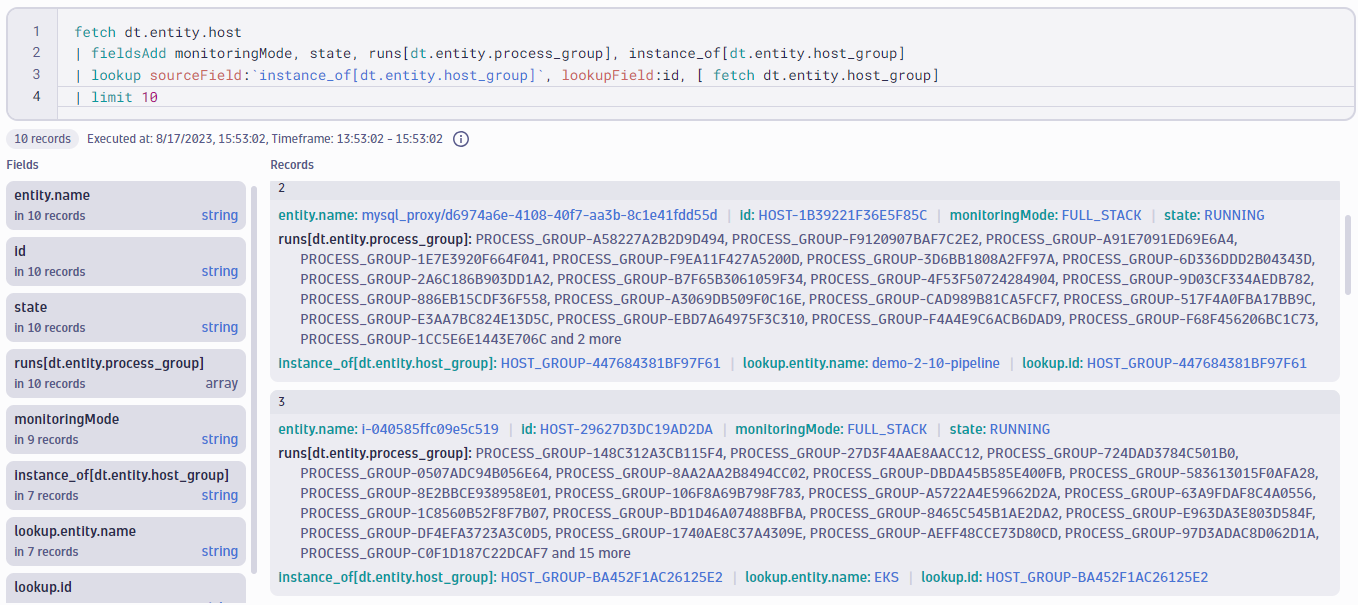
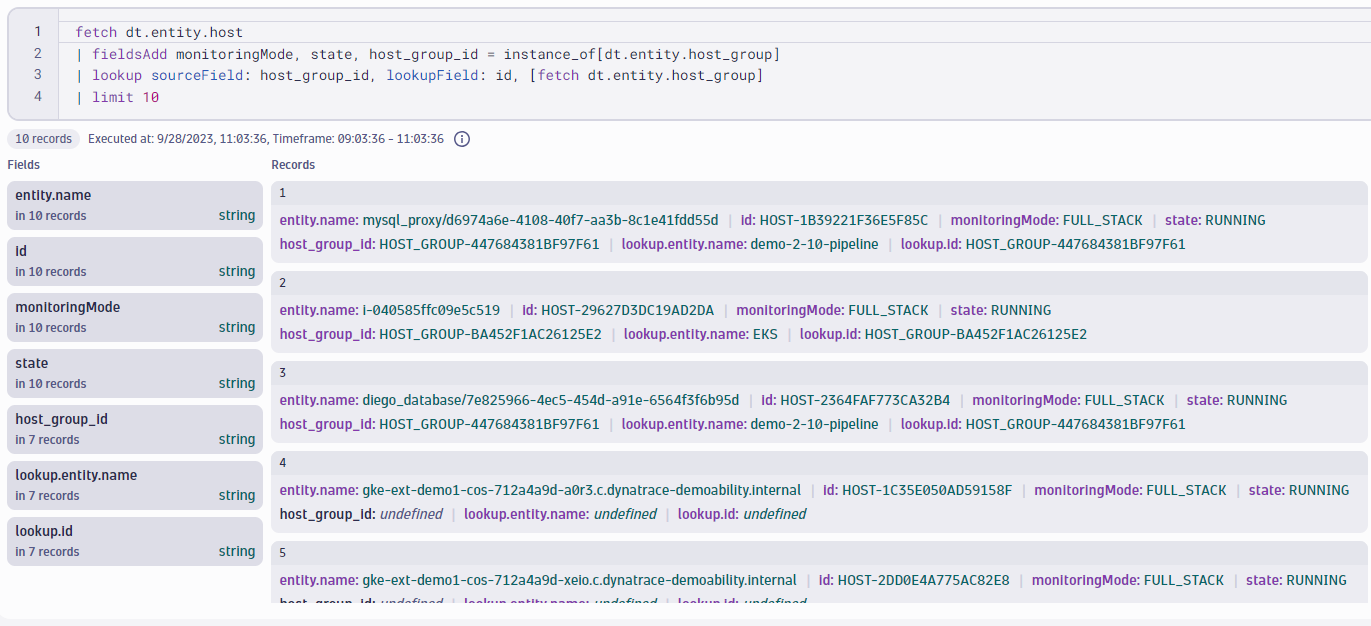
Post-dry run edits

Changed region(s): [[0.0, 0.0, 1.0, 1.0]]

diff --git a/DQL HOT 1 - DQL Fundamentals/content/02_DQL_Entities/index.md b/DQL HOT 1 - DQL Fundamentals/content/02_DQL_Entities/index.md
@@ -2,13 +2,15 @@
 
 In this section, you will practice querying entities and relationships with DQL in a Notebook.
 
+For these exercises, you will use the **[Dynatrace demo environment](https://guu84124.apps.dynatrace.com/ui/apps/dynatrace.notebooks/notebooks)**.  Navigate to that environment and create a new notebook.
+
 ---
 
 ### Step 1: Fetch a List of Hosts
 
 We will begin by querying a list of hosts.
 
-In a new notebook, add a new section and choose "Query Grail".
+Add a new section to your notebook and choose "Query Grail".
 
 
 #### Write and execute a query to obtain a list of hosts. Limit to 10 results.
@@ -40,7 +42,7 @@ Notice that by default, the only data returned for each host is the entity name 
 
 You can use the **describe** command to query information about the schema of a datatype.  This command will return the fields associated with a datatype.
 
-#### Add a new section to your notebook and use the describe command to list the fields associated with the dt.entity.host datatype.
+#### Add a <u>new section</u> to your notebook and use the describe command to list the fields associated with the dt.entity.host datatype.
 
 <H4><details>
 <summary>Click to Expand Solution</summary>
@@ -62,11 +64,11 @@ describe dt.entity.host
 
 Now that you know what fields are available to query for hosts, you can add additional fields to the output by using the **fieldsAdd** command.
 
-Note: When using the fieldsAdd command, you will see a list of suggested fields you can add to the results.  
+Note: When using the **fieldsAdd** command, you will see a list of suggested fields you can add to the results.  
 
 <!-- ![Notebooks](../../assets/images/Query_Entities_Add_Fields.png) -->
 
-#### Add monitoring mode and state to the results of your original query.
+#### Return to your <u>original **fetch** query</u> and add monitoring mode and state to the results.
 
 <H4><details>
 <summary>Click to Expand Solution</summary>
@@ -106,7 +108,7 @@ and many more.
 
 ```
 fetch dt.entity.host
-| fieldsAdd monitoringMode, state, instance_of[dt.entity.host_group]
+| fieldsAdd monitoringMode, state, host_group_id = instance_of[dt.entity.host_group]
 | limit 10
 ```
 
@@ -133,8 +135,8 @@ For example, the following query fetches a list of service instances, the hosts 
 Query:
 ```
 fetch dt.entity.service_instance
-| fieldsAdd runs_on[dt.entity.host]
-| lookup sourceField:`runs_on[dt.entity.host]`, lookupField:id, [ fetch dt.entity.host ]
+| fieldsAdd host_id = runs_on[dt.entity.host]
+| lookup sourceField:host_id, lookupField:id, [ fetch dt.entity.host ]
 ```
 Result:
 ![Lookup Example](../../assets/images/lookup_example_result.png)
@@ -142,8 +144,10 @@ Result:
 <br>
 
 #### Using the lookup command, add the name of the host group to the results.
-<br>
 
+- **Note:** it is a best practice to give fields readable names using **alias** or **=**.  Which also makes it easier to reference those fields with other commands, like **lookup**.
+
+<br>
 
 
 <H4><details>
@@ -151,8 +155,9 @@ Result:
 
 ```
 fetch dt.entity.host
-| fieldsAdd monitoringMode, state, instance_of[dt.entity.host_group]
-| lookup sourceField:`instance_of[dt.entity.host_group]`, lookupField:id, [ fetch dt.entity.host_group]
+| fieldsAdd monitoringMode, state, host_group_id = instance_of[dt.entity.host_group]
+| lookup sourceField: host_group_id, lookupField: id, [fetch dt.entity.host_group]
+| limit 10
 ```
 
 ![Lookup Host Group Result](../../assets/images/Query_Entities_Lookup_Host_Group.png)
@@ -167,7 +172,7 @@ The **lookup** command will only work if the sourceField value is a <u>single ID
 
 ![Lookup Error](../../assets/images/Query_Entities_Lookup_Error.png)
 
-In this case, you would first need to use the **expand** command to retrieve individual records per process group.  This is not covered in this lab.  To learn more, see [documentation](https://www.dynatrace.com/support/help/shortlink/grail-querying-monitored-entities#expand-relationships).
+In this case, you would first need to use the **expand** command to retrieve individual records per process group.  This is not covered in this exercise.  To learn more, see [documentation](https://www.dynatrace.com/support/help/shortlink/grail-querying-monitored-entities#expand-relationships).
 
 <br>
 <br>

diff --git a/DQL HOT 1 - DQL Fundamentals/content/01_DQL_Basics/index.md b/DQL HOT 1 - DQL Fundamentals/content/01_DQL_Basics/index.md
@@ -14,9 +14,9 @@ In this section, you will access the shared Dynatrace environment and review the
 ---
 ### Step 1
 
-Navigate to the provided Dynatrace environment: https://zcy16892.apps.dynatrace.com/ui/
+Navigate to the **Learn DQL** application in the Dynatrace environment provided for this HOT session:  
 
-Find and open the **Learn DQL** application:
+**[https://zcy16892.apps.dynatrace.com/ui/apps/dynatrace.learndql/](https://zcy16892.apps.dynatrace.com/ui/apps/dynatrace.learndql/)**
 
 ![Learn DQL App](../../assets/images/Learn_DQL_App.png)
 
@@ -27,3 +27,19 @@ Find and open the **Learn DQL** application:
 ### Step 2
 
 Complete the **Beginners Exercises** 
+
+<br>
+
+**Note:**
+- The queries in this exercise build upon the previous query.  Don't start from stratch, just continue to add to the query you're building.
+
+- Read the prompt closely, the matcher to check your success is very specific.
+
+- Use the provided links to documentation if you get stuck.
+
+- If you need to reset your progress on the beginners exercises:
+    - Navigate to **[https://zcy16892.apps.dynatrace.com/ui/apps/dynatrace.learndql/debug](https://zcy16892.apps.dynatrace.com/ui/apps/dynatrace.learndql/debug)**
+    - Click **Reset user app state**
+
+
+![User App State](../../assets/images/UserAppState.png)

diff --git a/DQL HOT 1 - DQL Fundamentals/content/04_DQL_Additional_Exercises/index.md b/DQL HOT 1 - DQL Fundamentals/content/04_DQL_Additional_Exercises/index.md
@@ -2,14 +2,37 @@
 
 In this section, you will find additional exercises to practice and test your abilities querying logs.
 
-### Exercise 1
+### Exercise 1 - Logs
 
 ...
 
-### Exercise 2
+### Exercise 2 - Entities
 
-...
+**In the [HOT session environment](https://zcy16892.apps.dynatrace.com/), pick one host and fetch a list of all the process groups running on that host that contain "easytravel" in their name.  There may be more than one possible solution.**
 
-### Exercise 3
+HINT: Try to solve this exercise using the **Expand** command mentioned at the end of the previous entity exercises.
+ 
+<H4><details>
+<summary>Possible Solution</summary>
+
+```
+fetch dt.entity.host
+| filter entity.name == "ip-10-0-0-219.ec2.internal"
+| fieldsAdd runs[dt.entity.process_group], alias:process_group_id
+| expand process_group_id
+| lookup sourceField:process_group_id, lookupField:id, [fetch dt.entity.process_group]
+| fieldsRemove lookup.id
+| filter contains(lookup.entity.name, "easytravel")
+```
+
+![Additional Entity Exercise](../../assets/images/AdditionalEntityExercise.png)
+
+</details></H4>
+<br>
+<br>
+
+
+
+### Exercise 3 - Timeseries
 
 ...

diff --git a/DQL HOT 1 - DQL Fundamentals/content/03_DQL_timeseries/index.md b/DQL HOT 1 - DQL Fundamentals/content/03_DQL_timeseries/index.md
@@ -30,7 +30,9 @@ timeseries min_cpu=min(dt.host.cpu.usage), max(dt.host.cpu.usage), default:99.9,
 
 ### Exercise 1
 
-Using the timeseries command create a chart within a notebook or dashboard that displays the avg cpu percentage split by host. The resulting chart should be similair to the image below:
+For these exercises, you will use the **[training environment](https://zcy16892.apps.dynatrace.com/ui/apps/dynatrace.notebooks/notebooks)**. 
+
+Using the timeseries command create a chart within a notebook or dashboard that displays the avg cpu percentage split by host. The resulting chart should be similar to the image below: 
 
 _Note_ - the number of hosts in the training environment may be less than shown below.
 
